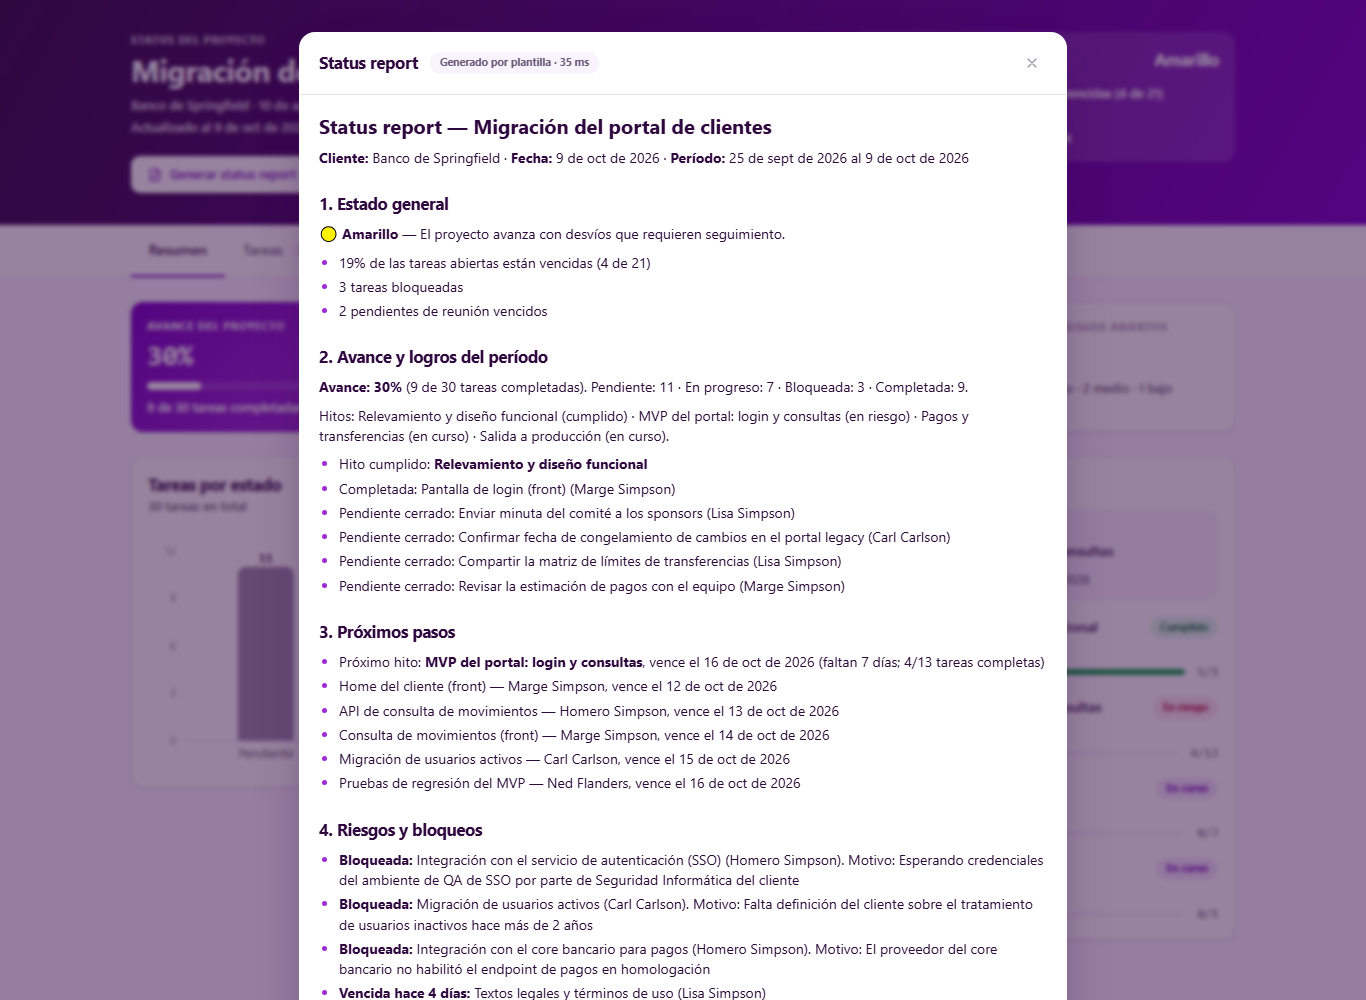
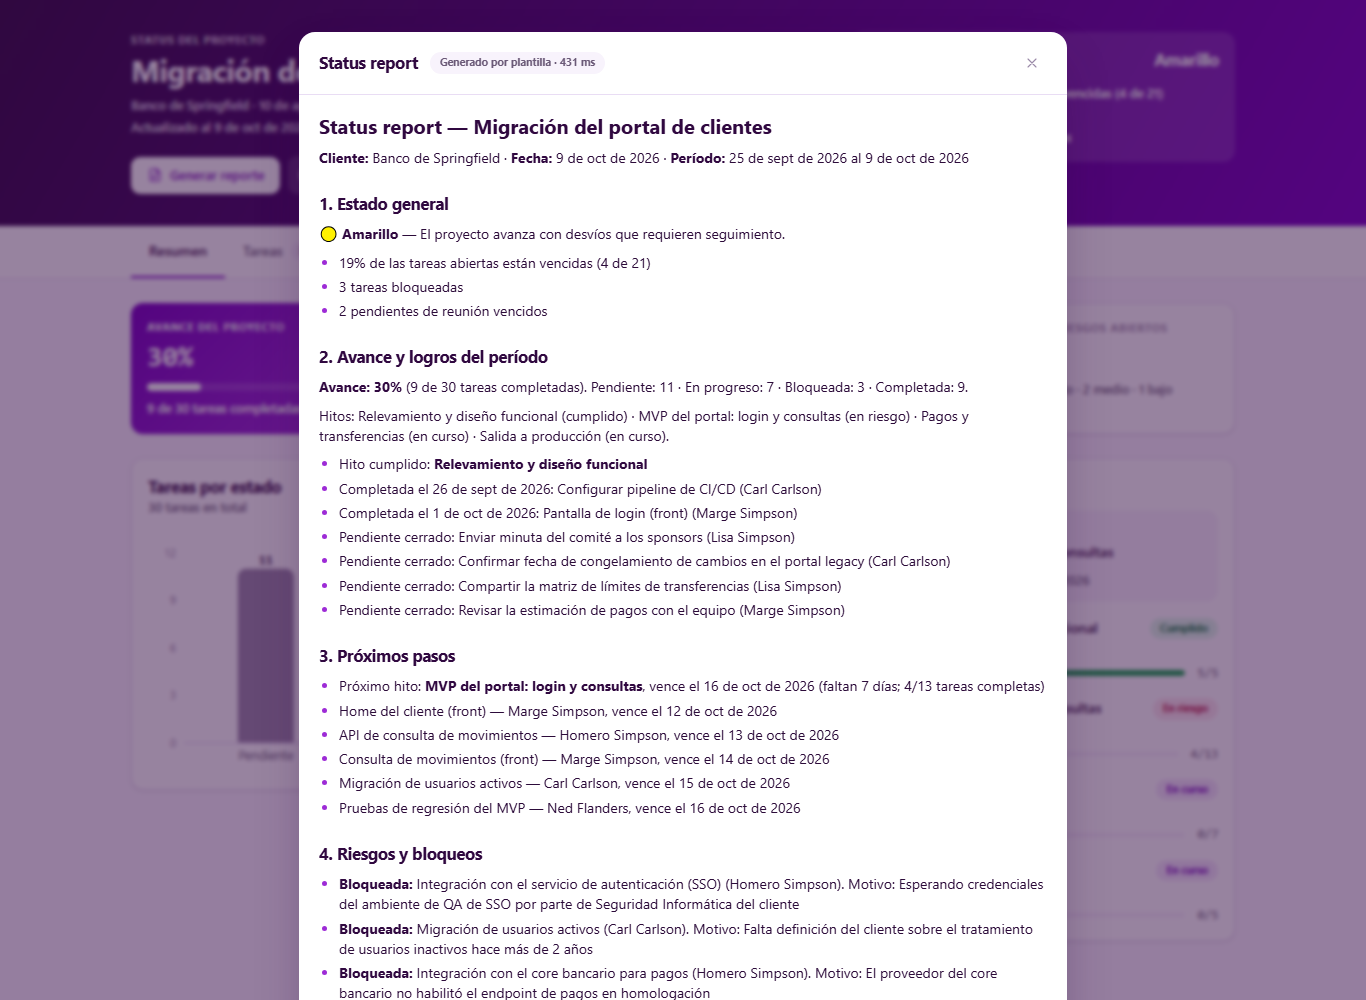
feat: rename the report button to "Generar reporte"
Updates the docs that mention it and retakes the README screenshots.

Changed region(s): [[0.246, 0.465, 0.7687, 1.0], [0.1845, 0.155, 0.246, 0.217]]

diff --git a/src/components/ReportPanel.tsx b/src/components/ReportPanel.tsx
@@ -41,7 +41,7 @@ const markdownComponents: Components = {
 };
 
 /**
- * "Generar status report" button + panel. Sends the current tasks (which may include this
+ * "Generar reporte" button + panel. Sends the current tasks (which may include this
  * browser's edits) so the report matches what the dashboard shows.
  */
 export default function ReportPanel({ today, tasks }: { today: ISODate; tasks: Task[] }) {
@@ -119,7 +119,7 @@ export default function ReportPanel({ today, tasks }: { today: ISODate; tasks: T
           <path d="M14 3H7a2 2 0 0 0-2 2v14a2 2 0 0 0 2 2h10a2 2 0 0 0 2-2V8z" />
           <path d="M14 3v5h5M9 13h6M9 17h4" />
         </svg>
-        Generar status report
+        Generar reporte
       </button>
 
       <Modal

diff --git a/README.md b/README.md
@@ -22,7 +22,7 @@ El PM abre el tablero y en un vistazo ve la salud del proyecto:
 - **Tareas** con filtros por estado, responsable y prioridad. Las vencidas se marcan en rojo y las bloqueadas muestran su motivo.
 - **ABM de tareas:** crear, editar y eliminar tareas desde el tablero. Los KPIs y el semáforo se actualizan al instante. Los cambios se guardan en el navegador y se pueden descartar con "Restablecer datos de demo".
 - **Pendientes** de reunión agrupados por reunión, y **relevamiento** (riesgos, hallazgos y requerimientos) con su impacto y estado.
-- **"Generar status report":** arma el reporte ejecutivo con 5 secciones (estado general, avance y logros, próximos pasos, riesgos y bloqueos, decisiones requeridas), listo para copiar, descargar en Markdown o imprimir / guardar como PDF.
+- **"Generar reporte":** arma el reporte ejecutivo con 5 secciones (estado general, avance y logros, próximos pasos, riesgos y bloqueos, decisiones requeridas), listo para copiar, descargar en Markdown o imprimir / guardar como PDF.
 
 | Tareas | Pendientes | Relevamiento |
 |---|---|---|

diff --git a/docs/SPEC.md b/docs/SPEC.md
@@ -65,7 +65,7 @@ Los umbrales (`RED_OVERDUE_PCT`, `YELLOW_OVERDUE_PCT`) son constantes en `metric
 
 ## 6. Interfaz
 
-- **Header:** nombre del proyecto, cliente, fechas, fecha de actualización, semáforo con motivos y el botón "Generar status report".
+- **Header:** nombre del proyecto, cliente, fechas, fecha de actualización, semáforo con motivos y el botón "Generar reporte".
 - **Pestañas** (en la URL: `?tab=resumen|tareas|pendientes|relevamiento`):
   - **Resumen:** tarjetas de KPIs, gráfico de tareas por estado e hitos (el próximo hito destacado, con su estado y avance).
   - **Tareas:** tabla con filtros por estado, responsable, prioridad y "Solo vencidas". Primero las abiertas por vencimiento y al final las completadas. Las vencidas muestran "Vencida hace N días" en rojo; las bloqueadas, su motivo. Incluye el ABM (ver sección 6.1).

diff --git a/CLAUDE.md b/CLAUDE.md
@@ -123,7 +123,7 @@ Lógica:
 - Resumen: fila de KpiCards + gráfico de tareas por estado + próximo hito.
 - Tareas: tabla con filtros; vencidas en rojo, bloqueadas con su motivo.
 - Pendientes y Relevamiento: listas con badges de estado e impacto.
-- Botón destacado "Generar status report" que abre ReportPanel (copiar / descargar .md).
+- Botón destacado "Generar reporte" que abre ReportPanel (copiar / descargar .md).
 - Responsive y prolijo, sin sobrediseñar. En celular las tareas se muestran como tarjetas.
 - Tema claro/oscuro (clase `html.dark`, botón en el header, elección guardada en el navegador).
 
